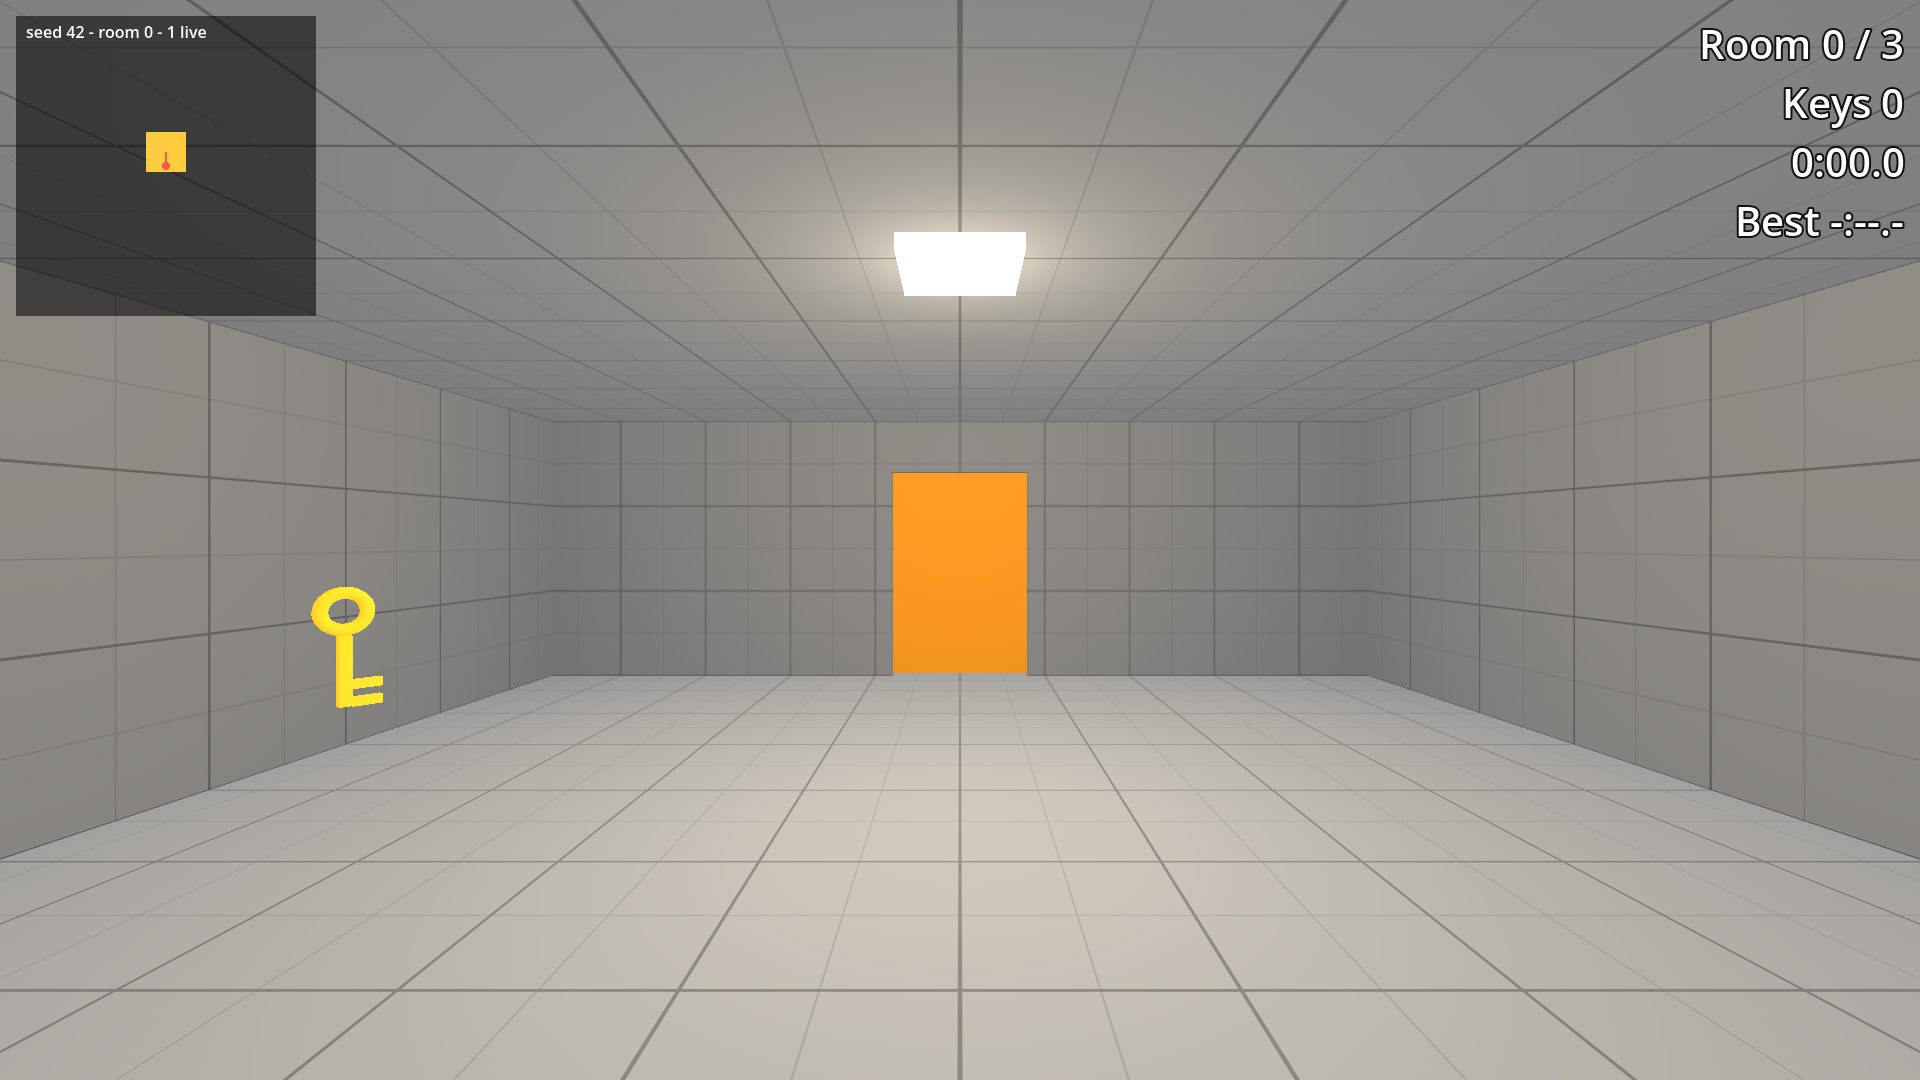
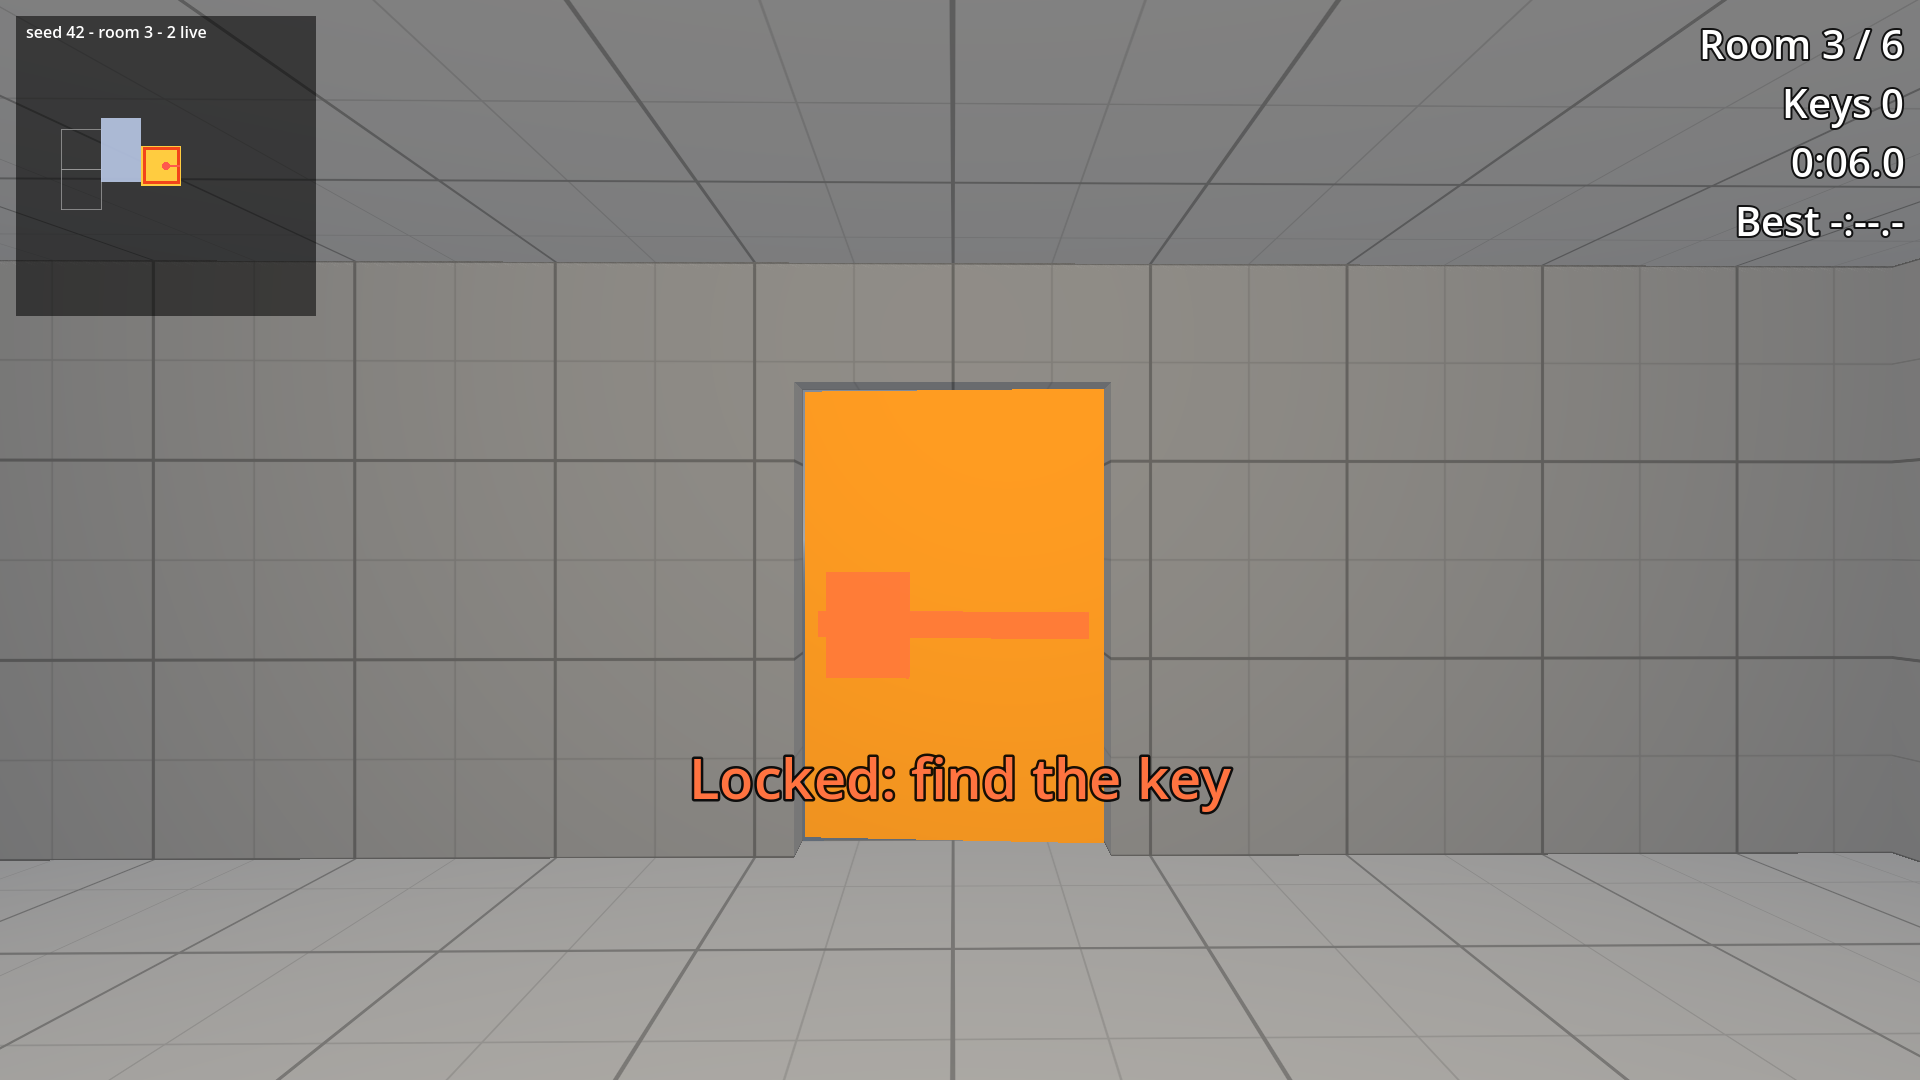
Tutorial 04: Keys and Locked Doors in Godot 4 (godot-04)

diff --git a/README.md b/README.md
@@ -14,7 +14,7 @@ that step. The project's main scene is the final step.
 
 | Folder | Part of the video |
 |---|---|
-| `steps/step_00_start` | Starting point (the final state of the previous tutorial) |
+| `steps/step_00_start` | Starting point (the final state of tutorial 03) |
 | `steps/step_01_key_pickup` | Step 1 - A key to pick up |
 | `steps/step_02_locked_door` | Step 2 - A locked door |
 | `steps/step_03_key_spots` | Step 3 - Spots for keys |
